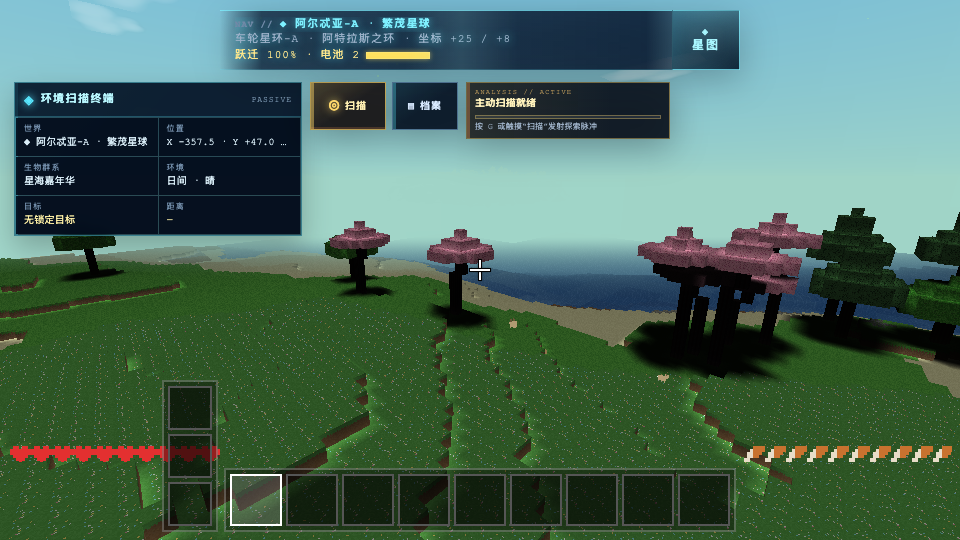
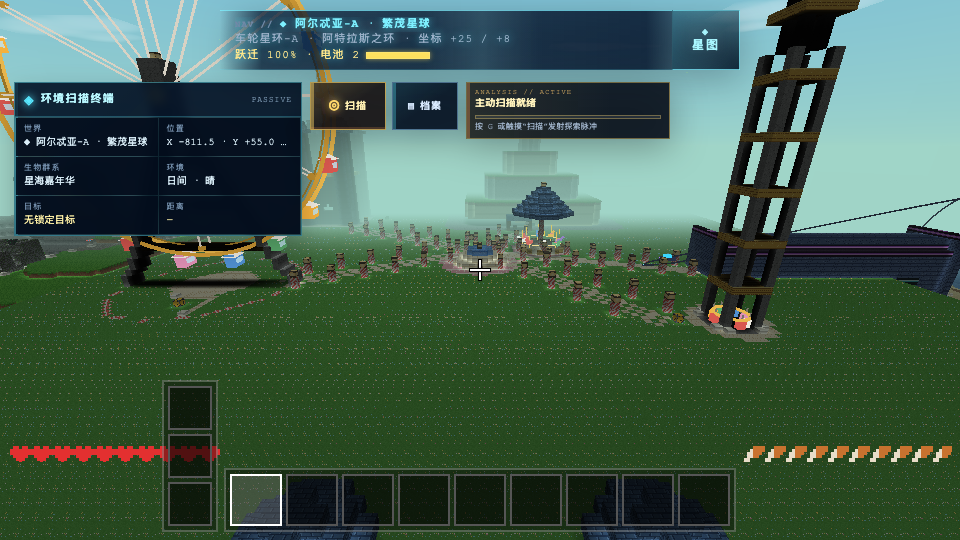
Refactor foundation logic and enhance biome capture functionality
- Updated the foundation function to ensure a flat walking surface by filling below the leveling plane and removing excess natural terrain above it.
- Improved the box function to ensure complete coverage of the park area, eliminating "checkerboard" depressions that hinder player movement.
- Enhanced the capture_biomes script to support new featured world entry points, ensuring proper biome shots are taken from park gates.
- Adjusted camera positioning and focus logic to provide better views of park features, improving the overall visual experience during gameplay.

diff --git a/test/capture_biomes.js b/test/capture_biomes.js
@@ -50,6 +50,14 @@ async function waitPlaying(page) {
   const outDir = path.join(root, 'screenshots', 'biomes');
   fs.mkdirSync(outDir, { recursive: true });
 
+  // 可传名称过滤：node test/capture_biomes.js [chrome路径] [shot名...]
+  const onlyNames = process.argv.slice(3);
+  // 园区结构只在精选世界入口（galaxy v2 流程）下启用，裸 v1 存档不会生成；
+  // 这些镜头必须在清档后走 btn-featured → startFeatured 启动。
+  const FEATURED_SHOTS = ['playground'];
+  const featuredMode = onlyNames.length > 0 &&
+    onlyNames.every(n => FEATURED_SHOTS.indexOf(n) >= 0);
+
   const browser = await puppeteer.launch({
     executablePath: execPath,
     headless: 'new',
@@ -68,6 +76,12 @@ async function waitPlaying(page) {
 
   const url = 'file://' + path.join(root, 'index.html');
   await page.goto(url, { waitUntil: 'load' });
+  // 园区镜头（parkGate）必须走精选世界入口：裸 v1 存档会被判为旧世界
+  // （terrainVersion=1），结构系统不启用，乐园设施根本不生成。
+  if (featuredMode) {
+    await page.evaluate(() => localStorage.removeItem(window.Voxel.Config.SAVE_KEY));
+    await page.reload({ waitUntil: 'load' });
+  } else {
   // 写入当前版本存档键（config.SAVE_KEY），固定种子与空白背包
   await page.evaluate((seed) => {
     var inv = [];
@@ -83,12 +97,25 @@ async function waitPlaying(page) {
     }));
   }, SEED);
   await page.reload({ waitUntil: 'load' });
+  }
 
   await page.addStyleTag({
-    content: '#lock-hint,#toast,#error-banner,#use-hint{display:none!important}'
+    content: '#lock-hint,#toast,#error-banner,#use-hint,#tutorial-card{display:none!important}'
   });
 
-  await page.click('#btn-start');
+  if (featuredMode) {
+    await page.click('#btn-featured');
+    await page.waitForFunction(() =>
+      window.Voxel && Voxel.Featured && Voxel.Featured.WORLDS &&
+      Voxel.Featured.WORLDS.findIndex(w => w.parkSpawn) >= 0,
+      { timeout: 30000, polling: 200 });
+    const cardIdx = await page.evaluate(() =>
+      Voxel.Featured.WORLDS.findIndex(w => w.parkSpawn));
+    console.log('进入精选世界：星海嘉年华（卡片 ' + cardIdx + '）');
+    await page.evaluate((i) => { Voxel.Game.startFeatured(i); }, cardIdx);
+  } else {
+    await page.click('#btn-start');
+  }
   console.log('等待世界生成（种子 ' + SEED + '）…');
   await waitPlaying(page);
   await sleep(2500);
@@ -191,7 +218,21 @@ async function waitPlaying(page) {
     }
     window.__biomeShot = function (opts) {
       var b = opts.biome;
-      var spot = opts.fixed ? { x: opts.fixed.x, z: opts.fixed.z }
+      // 星海嘉年华：与精选世界同一事实源——直接落位最近园区大门，
+      // 面向园内取景（否则拍到的只是群系地貌，没有摩天轮等设施）。
+      var yawOverride = null;
+      var parkBaseY = null;
+      if (opts.parkGate) {
+        var pk = Voxel.Structures && Voxel.Structures.enabled()
+          ? Voxel.Structures.nearestParkTo(0, 0, 6) : null;
+        var gt = pk ? Voxel.Structures.parkGateSpawn(pk) : null;
+        if (!gt) return null;
+        spot = { x: Math.floor(gt.x), z: Math.floor(gt.z), fx: pk.ax, fz: pk.az };
+        yawOverride = gt.yaw;
+        // 园区上空俯瞰：以锚点地表为基准抬升，越过门墙看到整园
+        parkBaseY = pk.ah + (opts.parkElev || 0);
+      }
+      if (!spot) spot = opts.fixed ? { x: opts.fixed.x, z: opts.fixed.z }
         : opts.overview
           ? { x: 128, z: 128 }
           : opts.wide
@@ -199,11 +240,13 @@ async function waitPlaying(page) {
             : findSpot(Voxel.Biomes.B[b], opts.preferSurf, opts.openSurf, opts.purity);
       if (!spot) return null;
       var g = groundAt(spot.x, spot.z);
-      var baseY = g.y > 0 ? g.y : 30;
+      var baseY = parkBaseY !== null ? parkBaseY : (g.y > 0 ? g.y : 30);
       var camY = baseY + (opts.height || 12);
       var pitch = opts.pitch !== undefined ? opts.pitch : -0.26;
       var yaw;
-      if (opts.overview) {
+      if (yawOverride !== null) {
+        yaw = yawOverride;
+      } else if (opts.overview) {
         camY = 92; pitch = -1.15; yaw = 0.75;
       } else if (opts.fixed && opts.fixed.yaw !== undefined) {
         yaw = opts.fixed.yaw;
@@ -217,8 +260,10 @@ async function waitPlaying(page) {
       Voxel.Weather.update(12);
       Voxel.Player.init(new THREE.Vector3(spot.x + 0.5, camY, spot.z + 0.5), yaw, pitch);
       Voxel.Player.setFlying(true);
-      Voxel.World.setFocus(spot.x, spot.z);
-      Voxel.World.buildMeshes(64, Voxel.Game.scene);
+      // 聚焦点取园区锚点（大门离设施最远 ~113 格），保证整园流式生成 + 建网格
+      Voxel.World.setFocus(spot.fx !== undefined ? spot.fx : spot.x,
+                           spot.fz !== undefined ? spot.fz : spot.z);
+      Voxel.World.buildMeshes(opts.meshR || 64, Voxel.Game.scene);
       return spot;
     };
   });
@@ -252,24 +297,25 @@ async function waitPlaying(page) {
     { name: 'swamp',           opts: { biome: 'SWAMP', height: 14, wide: true, wideStrict: true } },
     { name: 'cherry-grove',    opts: { biome: 'CHERRY_GROVE', height: 13, purity: 0.95 } },
     { name: 'dark-forest',     opts: { biome: 'DARK_FOREST', height: 12, wide: true, wideStrict: true } },
-    // v7 星海嘉年华（新增群系，取景点常在核心窗外，走宽域搜索）
-    { name: 'playground',      opts: { biome: 'PLAYGROUND', height: 14, wide: true, wideStrict: true } }
+    // v7 星海嘉年华：走精选世界入口（galaxy v2 流程）+ parkGateSpawn 落位
+    // 园门口，再升到园区上空俯瞰喷泉广场/摩天轮/城堡全景
+    { name: 'playground',      opts: { biome: 'PLAYGROUND', height: 28, pitch: -0.34, parkGate: true, parkElev: -6, meshR: 140 } }
   ];
 
-  // 可传名称过滤：node test/capture_biomes.js [chrome路径] [shot名...]
-  const onlyNames = process.argv.slice(3);
+  // 名称过滤已在 IIFE 顶部声明（onlyNames）
   const filtered = onlyNames.length
     ? shots.filter(s => onlyNames.indexOf(s.name) >= 0)
-    : shots;
-
-  for (const s of filtered) {
+    : shots;  for (const s of filtered) {
     const info = await page.evaluate((o) => window.__biomeShot(o), s.opts);
     if (!info) { console.log('跳过 ' + s.name + '（未找到合适位置）'); continue; }
     // 等待取景点周围 7×7 区块全部生成完毕（宽域点离核心远，流式生成
     // 每帧只推进少量区块），再留出网格构建缓冲，避免拍到大片未加载石料。
     await page.waitForFunction((spt) => {
       const CS = window.Voxel.Config.CHUNK, R = 3;
-      const cx = Math.floor(spt.x / CS), cz = Math.floor(spt.z / CS);
+      // 园区镜头聚焦在锚点（fx/fz），等聚焦点周围区块就绪
+      const fx = spt.fx !== undefined ? spt.fx : spt.x;
+      const fz = spt.fz !== undefined ? spt.fz : spt.z;
+      const cx = Math.floor(fx / CS), cz = Math.floor(fz / CS);
       for (let dx = -R; dx <= R; dx++)
         for (let dz = -R; dz <= R; dz++)
           if (!Voxel.World.isChunkLoaded(cx + dx, cz + dz)) return false;

diff --git a/js/world/structures.js b/js/world/structures.js
@@ -647,12 +647,15 @@ Voxel.Structures = (function () {
 
   // ---------- 园区构件（全部只依赖 park / L / 常量） ----------
 
-  // 找平地基：柱脚从真实地表逐列垫到平台高（确定性读 surfaceAt）
+  // 找平地基：低于找平面逐列垫实到平台高；高于找平面的天然土柱整段削除
+  // （'overwrite' 仅豁免基岩），保证行走面完全平坦、无棋盘坑与绊脚凸起。
   function foundation(writer, park, x, z, topY, baseId) {
+    var base = baseId === undefined ? PK.LAWN : baseId;
     var gs = ctx ? ctx.surfaceAt(x, z) : park.ah;
-    var start = Math.min(gs + 1, topY);
-    for (var y = start; y <= topY; y++) writer(x, y, z, baseId === undefined ? PK.LAWN : baseId, 'force');
-    if (gs > topY) writer(x, topY, z, baseId === undefined ? PK.LAWN : baseId, 'force');
+    var y;
+    for (y = gs + 1; y <= topY; y++) writer(x, y, z, base, 'force');
+    writer(x, topY, z, base, 'force');
+    for (y = topY + 1; y <= gs; y++) writer(x, y, z, 0, 'overwrite');
   }
 
   function box(writer, park, x0, z0, x1, z1, y0, y1, id, mode) {
@@ -699,9 +702,11 @@ Voxel.Structures = (function () {
       if (deep) writer(p[0], ah + top, p[1], id, 'force');
     }
 
-    // ---- 1. 广场找平 + 铺装主环 ----
-    for (var px = -70; px <= 74; px += 2) {
-      for (var pz = -74; pz <= 74; pz += 2) {
+    // ---- 1. 全园找平（逐格无洞）：整个椭圆统一垫到锚点地表高 ----
+    // 此前按 2 格步进跳列铺装，露出的原始地形形成"隔块下陷"的棋盘坑，
+    // 玩家行走绊倒摔伤——必须逐格覆盖，保证整园通行面完全平坦。
+    for (var px = -70; px <= 74; px++) {
+      for (var pz = -74; pz <= 74; pz++) {
         var d2 = px * px * 0.85 + pz * pz;
         if (d2 > 92 * 92) continue;
         var gp = S(px, pz);
@@ -788,11 +793,17 @@ Voxel.Structures = (function () {
           for (var w = -1; w <= 1; w++) {
             fCol(Math.round(wx - nz * w * 1.4), Math.round(wz + nx * w * 1.4), 0, PK.CREAM);
           }
-          if (sIdx % 5 === 2) {                                     // 灯柱：糖果杆+灯球
-            var lx = Math.round(wx + nz * 3), lz = Math.round(wz - nx * 3);
-            var lp = S(lx, lz);
-            foundation(writer, park, lp[0], lp[1], ah, PK.LAWN);
-            F(lx, lz, 1, PK.CANDY); F(lx, lz, 2, PK.CANDY); F(lx, lz, 3, PK.LANTERN);
+          // 大道双侧交错路灯（糖果杆托暖黄灯球，左右每 5 步错开一根）
+          if (sIdx % 5 === 0 || sIdx % 5 === 3) {
+            var side = (sIdx % 5 === 0) ? -1 : 1;
+            var lx = Math.round(wx + nz * side * 3);
+            var lz = Math.round(wz - nx * side * 3);
+            var le2 = lx * lx * 0.85 + lz * lz;
+            if (le2 <= 88 * 88) {
+              var lp = S(lx, lz);
+              fCol(lx, lz, 0, PK.LAWN, true);
+              F(lx, lz, 1, PK.CANDY); F(lx, lz, 2, PK.CANDY); F(lx, lz, 3, PK.LANTERN);
+            }
           }
         }
       }
